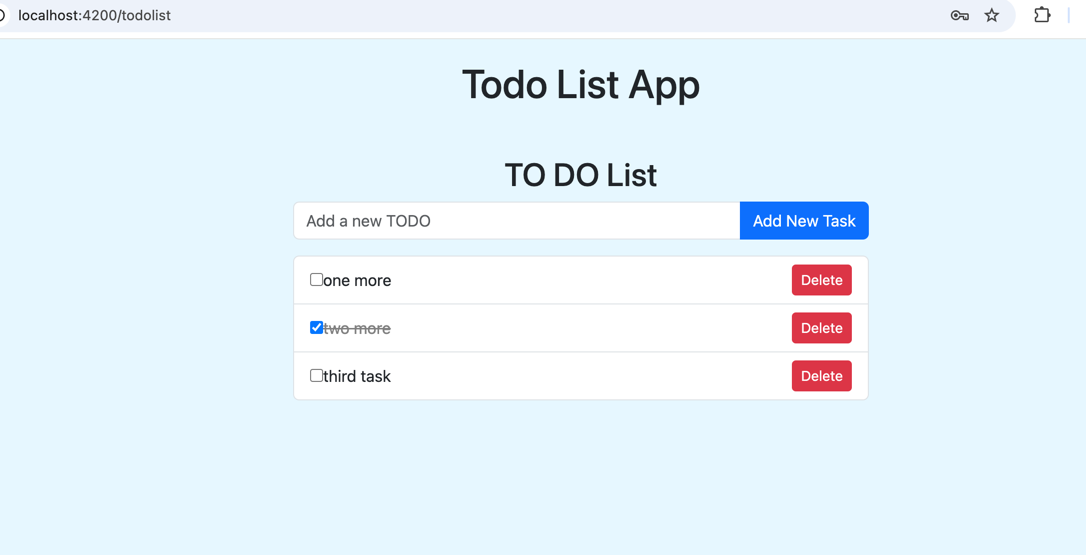
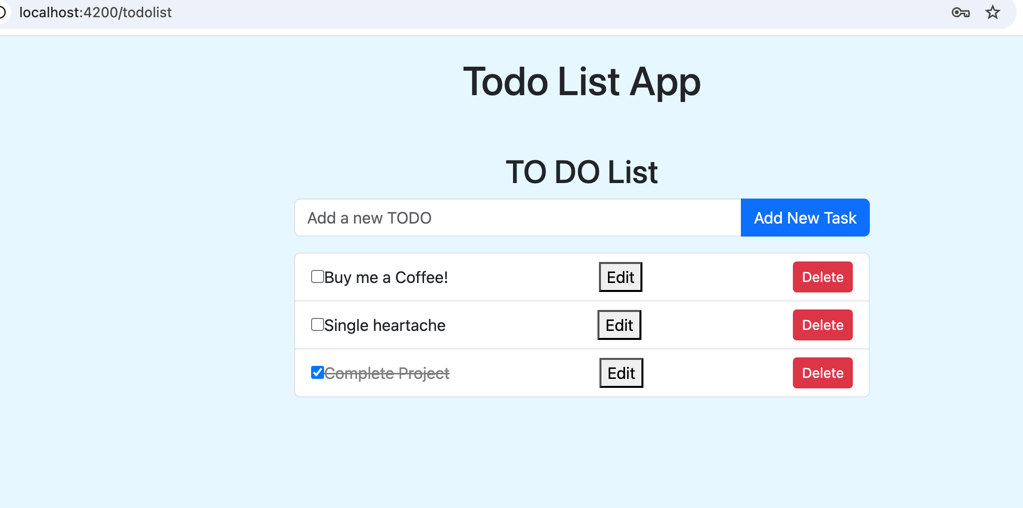
Added Edit functionality

diff --git a/src/app/components/todo-list/todo-list.component.ts b/src/app/components/todo-list/todo-list.component.ts
@@ -45,13 +45,26 @@ export class TodoListComponent implements OnInit {
   }
 
   updateTodoStatus(todo: any): void {
-    this.todoService.updateTodo(todo.id, { status: !todo.status, active: true }).subscribe(updatedTodo => {
+    this.todoService.updateTodo(todo.id, { status: !todo.status }).subscribe(updatedTodo => {
       const index = this.todos.findIndex(t => t.id === updatedTodo.id);
       if (index !== -1) {
         this.todos[index] = updatedTodo;
       }
     });
   }
+
+  editTodo(todo: any): void {
+    const newDescription = prompt("Edit your todo:", todo.description);
+    if (newDescription) {
+      this.todoService.editTodo(todo.id, { ...todo, description: newDescription, status: false }).subscribe(updatedTodo => {
+        const index = this.todos.findIndex(t => t.id === updatedTodo.id);
+        if (index !== -1) {
+          this.todos[index] = updatedTodo;
+        }
+      });
+    }
+  }
+
 
   deleteTodo(todoId: number): void {
     this.todoService.deleteTodo(todoId).subscribe(() => {

diff --git a/src/app/services/todo.service.ts b/src/app/services/todo.service.ts
@@ -21,9 +21,14 @@ export class TodoService {
   }
 
   // Update an existing todo status
-  updateTodo(todoId: number, todo: { status: boolean; active: boolean }): Observable<any> {
-    return this.http.put<any>(`${this.apiUrl}/${todoId}/status`, todo);
+  updateTodo(todoId: number, todo: { status: boolean}): Observable<any> {
+    return this.http.put<any>(`${this.apiUrl}/status/${todoId}`, todo);
   }
+
+  // Edit todo
+  editTodo(todoId: number, editedTodo: { description: string; status: boolean }): Observable<any> {
+      return this.http.put<any>(`${this.apiUrl}/edit/${todoId}`, editedTodo);
+    }
 
   // Delete todo
   deleteTodo(todoId: number): Observable<void> {

diff --git a/src/app/components/todo-list/todo-list.component.html b/src/app/components/todo-list/todo-list.component.html
@@ -23,6 +23,7 @@
         />
         <span [class.completed]="todo.status">{{ todo.description }}</span>
       </div>
+      <button (click)="editTodo(todo)">Edit</button>
       <button class="btn btn-danger btn-sm" (click)="deleteTodo(todo.id)">Delete</button>
     </li>
   </ul>

diff --git a/src/app/services/user.service.ts b/src/app/services/user.service.ts
@@ -29,7 +29,6 @@ export class UserService {
   }
 
   isAuthenticated(): boolean {
-    console.log(this.userId);
     return this.userId !== null; // Check if user is logged in
   }
 }
